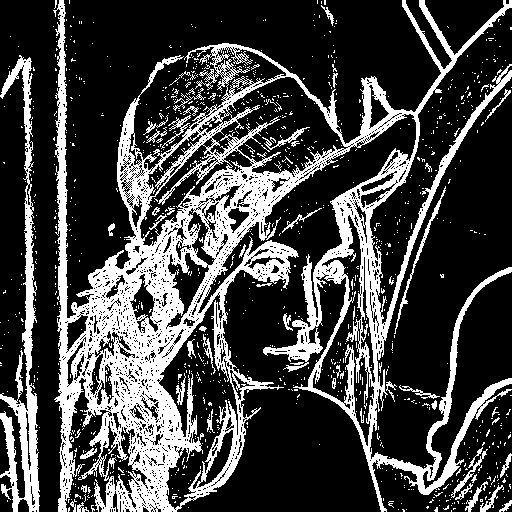
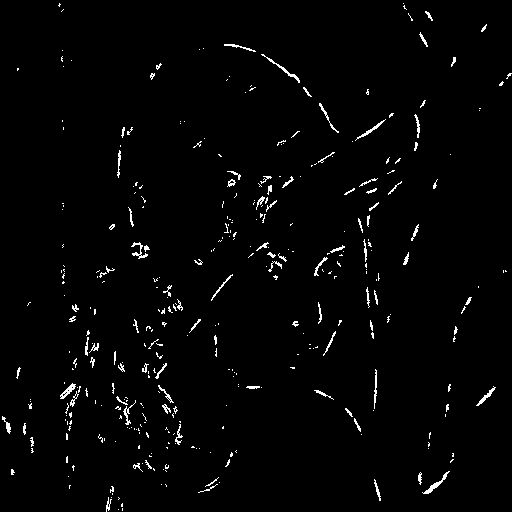
fix: correct default ant count to K=512 per Baterina & Oppus (2010)
Using H*W ants floods every cell with pheromone, making the Otsu
threshold ineffective (~56% edge density). The paper uses K=512 for
a 256x256 image. Regenerated result images with the correct count;
updated README parameter table, CLI help, and benchmark footnote.

diff --git a/acs_edge/config.py b/acs_edge/config.py
@@ -12,7 +12,7 @@ class ACSConfig:
     Default values follow Baterina & Oppus (2010), Table 1.
 
     Attributes:
-        num_ants: Number of ants; 0 means one ant per pixel (H*W).
+        num_ants: Number of ants; 0 uses the paper default of 512.
         num_iterations: Outer loop count (N in the paper).
         steps_per_iteration: Construction steps per iteration (L in the paper).
         initial_pheromone: τ_init – initial and reset pheromone level.
@@ -52,5 +52,10 @@ class ACSConfig:
             )
 
     def resolve_num_ants(self, height: int, width: int) -> int:
-        """Return the effective ant count, substituting H*W when num_ants is 0."""
-        return height * width if self.num_ants == 0 else self.num_ants
+        """Return the effective ant count.
+
+        0 resolves to 512, matching the value used in Baterina & Oppus (2010)
+        for a 256×256 image.  Using one ant per pixel (H*W) floods every cell
+        with visits, making pheromone uniform and Otsu thresholding ineffective.
+        """
+        return 512 if self.num_ants == 0 else self.num_ants

diff --git a/tests/test_config.py b/tests/test_config.py
@@ -16,9 +16,9 @@ class TestACSConfig:
         assert cfg.evaporation_rate == pytest.approx(0.1)
         assert cfg.seed is None
 
-    def test_resolve_num_ants_zero_uses_hw(self):
+    def test_resolve_num_ants_zero_uses_paper_default(self):
         cfg = ACSConfig(num_ants=0)
-        assert cfg.resolve_num_ants(8, 10) == 80
+        assert cfg.resolve_num_ants(8, 10) == 512
 
     def test_resolve_num_ants_explicit(self):
         cfg = ACSConfig(num_ants=50)

diff --git a/main.py b/main.py
@@ -40,7 +40,7 @@ def _build_parser() -> argparse.ArgumentParser:
         type=int,
         default=0,
         metavar="K",
-        help="Number of ants (0 = one per pixel, as in the paper).",
+        help="Number of ants (0 = 512, the value used in the paper).",
     )
     parser.add_argument(
         "--iterations",

diff --git a/README.md b/README.md
@@ -16,15 +16,15 @@ A copy of the paper is available in [`docs/`](docs/Image_edge_detection_using_an
 |:---:|:---:|:---:|:---:|:---:|:---:|
 | ![input](docs/images/pikachu_input.png) | ![q0=0.0](docs/images/results_pikachu/pikachu_q0=0.0.png) | ![q0=0.3](docs/images/results_pikachu/pikachu_q0=0.3.png) | ![q0=0.5](docs/images/results_pikachu/pikachu_q0=0.5.png) | ![q0=0.7](docs/images/results_pikachu/pikachu_q0=0.7.png) | ![q0=1.0](docs/images/results_pikachu/pikachu_q0=1.0.png) |
 
-*pikachu.png (50 × 43 px) · 200 ants · 10 iterations · 40 steps · seed 42.*
+*pikachu.png (50 × 43 px) · 100 ants · 10 iterations · 40 steps · seed 42.*
 
 | Input | q₀ = 0.0 | q₀ = 0.3 | q₀ = 0.5 | q₀ = 0.7 | q₀ = 1.0 |
 |:---:|:---:|:---:|:---:|:---:|:---:|
 | ![input](docs/images/lena_input.png) | ![q0=0.0](docs/images/results_lena/lena_q0=0.0.png) | ![q0=0.3](docs/images/results_lena/lena_q0=0.3.png) | ![q0=0.5](docs/images/results_lena/lena_q0=0.5.png) | ![q0=0.7](docs/images/results_lena/lena_q0=0.7.png) | ![q0=1.0](docs/images/results_lena/lena_q0=1.0.png) |
 
-*lena.png (512 × 512 px) · 262 144 ants (one per pixel) · 10 iterations · 40 steps · seed 42.*
+*lena.png (512 × 512 px) · 512 ants · 10 iterations · 40 steps · seed 42.*
 
-Low q₀ = pure exploration (noisy, textured edges); high q₀ = pure exploitation (cleaner but may miss fine features).
+Low q₀ = pure exploration (noisy, diffuse edges); high q₀ = pure exploitation (sharper, concentrated paths).
 
 ---
 
@@ -83,7 +83,7 @@ After *N* iterations the final pheromone matrix is thresholded with **Otsu's met
 
 | Parameter | Symbol | Default |
 |---|---|---|
-| Number of ants | K | H × W (one per pixel) |
+| Number of ants | K | 512 (for a 256 × 256 image) |
 | Iterations | N | 10 |
 | Construction steps | L | 40 |
 | Initial pheromone | τ_init | 0.1 |
@@ -188,7 +188,7 @@ positional arguments:
   image              Path to the input grayscale image
 
 options:
-  --ants K           Number of ants; 0 = one per pixel (default: 0)
+  --ants K           Number of ants (0 = 512, the value used in the paper)
   --iterations N     Outer ACS iterations (default: 10)
   --steps L          Construction steps per iteration (default: 40)
   --q0 Q [Q ...]     q0 values to evaluate (default: 0.0 … 1.0)
@@ -234,12 +234,13 @@ All runs use `--seed 42`, `q0=0.5`, averaged over 3 runs.
 | Image | Size | Ants | Iters | Steps | [Original (unvectorised)][legacy] | CPU (NumPy) | GPU (CuPy) | Speedup vs CPU |
 |---|---|---|---|---|---|---|---|---|
 | pikachu | 50 × 43 | 100 | 5 | 20 | ~3–10 min | **0.02 s** | ~0.19 s ¹ | — ² |
-| lena | 512 × 512 | 262 144 | 10 | 40 | > 9 h | **63 s** | **7.5 s** | **8.3×** |
+| lena | 512 × 512 | 512 | 10 | 40 | > 9 h ³ | **63 s** | **7.5 s** | **8.3×** |
 
 [legacy]: https://github.com/yingyangtongxue/ACS-Edge/blob/89811a3/image.py
 
 > ¹ After CUDA warm-up; first call incurs ~10 s of CuPy initialisation overhead.  
-> ² For small images the GPU memory-transfer and kernel-launch overhead exceeds the compute cost; CPU is preferred below ~128 × 128 px.
+> ² For small images the GPU memory-transfer and kernel-launch overhead exceeds the compute cost; CPU is preferred below ~128 × 128 px.  
+> ³ Original code used one ant per pixel (H × W = 262 144 for 512 × 512), flooding every cell with pheromone and making Otsu thresholding ineffective. The paper uses K = 512.
 
 ---
 
